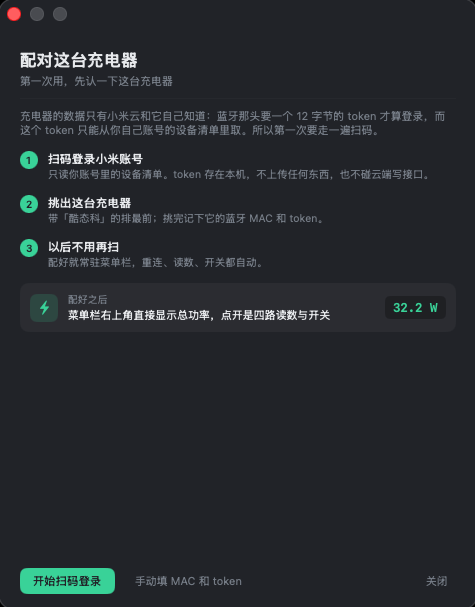
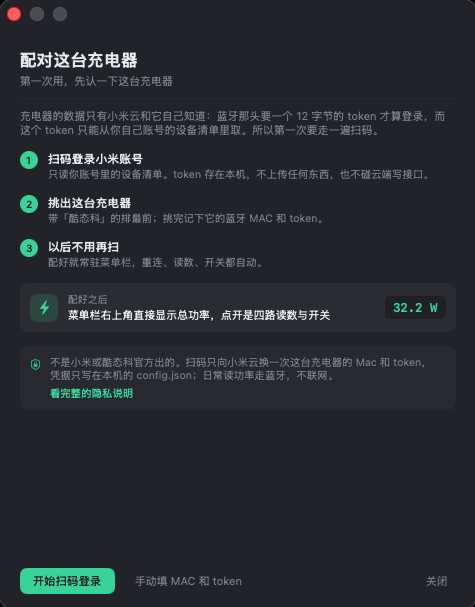
0.4.6: fix QR pairing under NativeAOT, privacy notes, macOS 0.1.0
Windows 0.4.6 fixes the reflection-serialization crash in the pairing path and adds --selftest AOT checks plus privacy notes in the wizard and README. macOS moves to its own version line starting at 0.1.0 with a privacy note in the wizard. Release drafts, changelog, dev log and the regenerated macOS wizard screenshots are included.

Changed region(s): [[0.0589, 0.5634, 0.8842, 0.6524]]

diff --git a/docs/release-0.4.6.md b/docs/release-0.4.6.md
@@ -1,0 +1,88 @@
+# 0.4.6 —— 扫完码报的那句英文，是我们自己的错
+
+> 这份是发 GitHub Release 用的正文草稿（中文），复制粘贴即可。英文见 [release-0.4.6.en.md](release-0.4.6.en.md)。
+
+一句话：修一个用户实际操作时才会撞到的坑——**扫码配对成功之后，向导上直接弹出一句英文**
+`Reflection-based serialization has been disabled for this app`。顺带把隐私说明写进了向导和 README，
+macOS 版从这一版起自己编号。
+
+## 这次改了什么
+
+### 0.4.6（本版）
+
+* **修扫码配对失败**：0.4.0 换成 NativeAOT 之后，反射式 JSON 序列化默认被关掉，而扫码链路上有两处用了它——
+  `/v2/home/home_device_list` 的请求体（`MiCrypto.JsonToken()` 内部）和 `blt_get_beaconkey`（`serialize(did)`）。
+  这两处都改成手写转义 `MiCrypto.JsonQuote()`，行为与原来完全一致
+* **为什么之前没测出来**：本地一直用已保存的 `settings.json` 跳过登录，扫码链路从没在 AOT 版上真机跑过一遍。
+  这一版把缺口补上：`--selftest` 增加 7 项 JSON 转义断言 + 一次设置文件源生成序列化往返，并打印
+  `[aot] json-reflection-enabled=False` 把「AOT 下反射序列化确实是关的」写进日志
+* **向导加隐私说明**：第一屏底部一行小字，点开是四段式说明（扫码时做什么 / 数据留在哪 / 不会做什么 / 想清干净删什么）。
+  没有勾选框、不挡路
+* **README 新增「九、隐私」一节**（中英同步），内容与弹窗一致，用一张表把「什么时候 / 做了什么 / 数据去哪」列清楚
+* 版本号 0.4.5 → 0.4.6
+
+### 隐私说明（详情）
+
+* 扫码只向小米云换一次这台充电器的 `mac` 与 12 字节 `token`；账号、密码、验证码全程在手机上，程序看不见
+* 凭据只写本机 `settings.json`（安装版 `%LOCALAPPDATA%\CuktechTray\settings.json`）；
+  `session.json` 里的登录会话只为「重新配置设备」时少扫一次码
+* 日常读功率、断/通端口全走蓝牙，不联网；**只有你主动点「检查更新」才会访问一次 GitHub**
+* 不上传读数、不做统计、不装后台服务；卸载后本机不留东西
+
+### macOS 版：0.1.0（从这一版起独立编号）
+
+macOS 版不再跟 Windows 共用版本号，自己从 **0.1.0** 开始，产物名 `CuktechTray-0.1.0-mac.zip`。
+两个平台改动节奏不一样，绑同一个号只会让更新日志变成两边不相干的条目混在一起。
+这一版 macOS 端也加了隐私说明（欢迎页一段小字 + 「看完整的隐私说明」弹窗），说明见 [mac/README.md](../mac/README.md)。
+
+### 0.4.5
+
+* 宣传素材换成真身：`--render-icons` / `--render-taskbar` 由程序自己渲图，右键菜单从真身抓屏；功能与 0.4.4 相同
+
+### 0.4.4
+
+* 顶栏「已连接」去掉半透明绿底，只留圆点与文字；顶栏整体下移 8 px，面板 320×396 → **320×404**
+
+## 怎么升级
+
+* **绿色版**：把新的 `CuktechTray.exe` 覆盖旧的即可，`settings.json` 原样接着用
+* **装过本机的**：托盘右键 →「检查更新」，它自己下载、校验 SHA256、重启换掉自己；也可以直接替换
+  `%LOCALAPPDATA%\Programs\CuktechTray\CuktechTray.exe`
+* **扫过码但没成功的**：升级后重新走一次向导即可（托盘菜单 →「重新配置设备…」，或 `CuktechTray.exe --setup`）
+* **命令行等价物**：`--install [--dir=<路径>] [--autostart] [--desktop] [--silent]`、`--uninstall [--silent]`，全程不弹 UAC
+
+## 文件
+
+| 文件 | 大小 | 说明 |
+| --- | --- | --- |
+| `CuktechTray-0.4.6-win.exe` | **10,882,048 字节（10.38 MiB）** | Windows：绿色版 + 安装器二合一；比 0.4.5 多 2,560 字节（手写转义 + 自检项） |
+| `CuktechTray-0.1.0-mac.zip` | **911,811 字节（890 KiB）** | macOS 13+：解压出 `CuktechTray.app`（universal，Intel / Apple Silicon 都能跑，ad-hoc 签名），说明见 [mac/README.md](../mac/README.md) |
+
+## 校验
+
+```
+文件   CuktechTray-0.4.6-win.exe   （本地 build 出来叫 CuktechTray.exe，同一个文件）
+大小   10,882,048 字节
+SHA256 BEF1F61D06DA270871DD4333FA39BEFD04EAE547D0F5DCB656F9F0A835BCF051
+
+文件   CuktechTray-0.1.0-mac.zip   （CI 在 macos-26-intel 上编的 universal 包）
+大小   911,811 字节
+SHA256 42621A1F1D1E3FF6BE18542F4C15B5E636400119906272E3791AFEE5EDCECA8F
+```
+
+Windows 用 `Get-FileHash .\CuktechTray-0.4.6-win.exe -Algorithm SHA256`、macOS 用
+`shasum -a 256 CuktechTray-0.1.0-mac.zip` 对着看；GitHub 的资产页也会直接显示 digest。
+
+## 系统要求
+
+* Windows 10 2004（内部版本 19041）及以上，x64；或 macOS 13 及以上（Intel / Apple Silicon 通用）
+* 两边都不需要装运行时：Windows 端是 NativeAOT 单文件，macOS 端是原生 .app
+* 硬件还是「酷态科 10 号 Ultra」充电器 + 蓝牙（BLE），认证成功后的运行期只走蓝牙
+
+## 已知
+
+* 这个 exe **没有代码签名**，首次运行会弹蓝色的「Windows 已保护你的电脑」，点「更多信息 → 仍要运行」即可
+* 自动更新只认名字以 `CuktechTray-` 开头、以 `.exe` 结尾、且不含 `Setup` 的发布资产，所以 `-win.exe` 天然符合、`-mac.zip` 不会被误选
+* macOS 包**没有公证**（没有 Apple 开发者账号，只有 ad-hoc 签名），第一次打开要右键 → 打开，细节见 [mac/README.md](../mac/README.md)
+* macOS 版从这一版起版本号独立（0.1.0），升级时别拿 Windows 的 0.4.x 去对
+* `--render*` / `--font-probe` / `--update-selftest` 这些是开发自查用的开关，正常使用不用管

diff --git a/docs/release-0.4.6.en.md b/docs/release-0.4.6.en.md
@@ -1,0 +1,85 @@
+# 0.4.6 — the English sentence after a QR scan was our bug
+
+> Draft release body (English). Chinese version: [release-0.4.6.md](release-0.4.6.md).
+
+In one line: a bug only reachable through real use — **right after a successful QR pairing the wizard showed the English sentence**
+`Reflection-based serialization has been disabled for this app`. This release also adds a privacy note to the wizard and the README,
+and macOS starts its own version line.
+
+## What changed
+
+### 0.4.6 (this release)
+
+* **Fixed QR pairing**: after 0.4.0 moved to NativeAOT, reflection-based JSON serialization is off by default, and the pairing path used it in two places —
+  the `/v2/home/home_device_list` body (inside `MiCrypto.JsonToken()`) and `blt_get_beaconkey` (`serialize(did)`).
+  Both now use a hand-written escaper `MiCrypto.JsonQuote()`, with identical behaviour
+* **Why it had never been caught**: local testing always used a saved `settings.json` and skipped the login path, so the pairing path had never run on a real AOT build.
+  `--selftest` now covers it: seven JSON-escaping assertions plus a settings source-generation round-trip, and it prints
+  `[aot] json-reflection-enabled=False` so the log proves that reflection serialization really is off under AOT
+* **Privacy note in the wizard**: one small line at the bottom of the first screen; it opens a four-part explanation (what scanning does / where data stays / what is never done / what to delete).
+  No checkbox, nothing blocking
+* **README gained a "9. Privacy" section** (both languages), matching the dialog, with a when / what / where table
+* Version 0.4.5 → 0.4.6
+
+### Privacy in short
+
+* Scanning exchanges this charger's `mac` and a 12-byte `token` once with Xiaomi Cloud; account, password and verification code stay on the phone
+* Credentials are written only to the local `settings.json` (installed builds: `%LOCALAPPDATA%\CuktechTray\settings.json`);
+  the session in `session.json` exists only to save one scan when reconfiguring
+* Power readings and port switching go over Bluetooth with no network; **only an explicit "Check for updates" contacts GitHub**
+* No uploads, no telemetry, no background service; uninstalling leaves nothing behind
+
+### macOS: 0.1.0 (own version line from here on)
+
+macOS no longer shares the Windows version number and starts at **0.1.0**: `CuktechTray-0.1.0-mac.zip`.
+The two platforms move at different speeds, and one shared number only mixes unrelated changelog entries.
+macOS also got the privacy note in this release (a paragraph on the welcome screen plus a full-note dialog); see [mac/README.md](../mac/README.md).
+
+### 0.4.5
+
+* Promo assets replaced with the real thing: `--render-icons` / `--render-taskbar` render from the program itself, the menu is captured from the real menu; no functional change from 0.4.4
+
+### 0.4.4
+
+* The connected pill drops its tinted fill (dot and label stay) and the top bar moves down 8 px; panel 320×396 → **320×404**
+
+## Upgrading
+
+* **Portable**: overwrite the old `CuktechTray.exe`; `settings.json` keeps working
+* **Installed**: tray menu → "Check for updates" downloads, verifies SHA256 and replaces itself; or replace
+  `%LOCALAPPDATA%\Programs\CuktechTray\CuktechTray.exe` directly
+* **Tried to pair and failed**: after upgrading, run the wizard again (tray menu → "Reconfigure device…", or `CuktechTray.exe --setup`)
+* **Command line equivalents**: `--install [--dir=<path>] [--autostart] [--desktop] [--silent]`, `--uninstall [--silent]`, no UAC prompts
+
+## Files
+
+| File | Size | Notes |
+| --- | --- | --- |
+| `CuktechTray-0.4.6-win.exe` | **10,882,048 bytes (10.38 MiB)** | Windows: portable build + installer in one; 2,560 bytes more than 0.4.5 (hand-written escaping + self-checks) |
+| `CuktechTray-0.1.0-mac.zip` | **911,811 bytes (890 KiB)** | macOS 13+: unpacks to `CuktechTray.app` (universal, Intel / Apple Silicon, ad-hoc signed), see [mac/README.md](../mac/README.md) |
+
+## Checksums
+
+```
+file   CuktechTray-0.4.6-win.exe   (the local build is called CuktechTray.exe, same file)
+size   10,882,048 bytes
+SHA256 BEF1F61D06DA270871DD4333FA39BEFD04EAE547D0F5DCB656F9F0A835BCF051
+
+file   CuktechTray-0.1.0-mac.zip   (universal build from macos-26-intel CI)
+size   911,811 bytes
+SHA256 42621A1F1D1E3FF6BE18542F4C15B5E636400119906272E3791AFEE5EDCECA8F
+```
+
+## Requirements
+
+* Windows 10 2004 (build 19041)+, x64; or macOS 13+ (Intel / Apple Silicon)
+* No runtime needed on either platform: NativeAOT single file on Windows, a native .app on macOS
+* Hardware is still a CUKTECH 10 Ultra charger over BLE; once authenticated everything stays on Bluetooth
+
+## Known
+
+* The exe is **not code-signed**; the first run shows the blue SmartScreen box — "More info → Run anyway"
+* Auto-update only accepts release assets starting with `CuktechTray-`, ending in `.exe` and not containing `Setup`, so `-win.exe` matches and `-mac.zip` is never picked by the Windows side
+* The macOS bundle is **not notarized** (no Apple Developer account, ad-hoc signature only); right-click → Open the first time — see [mac/README.md](../mac/README.md)
+* macOS has its own version line from this release (0.1.0); don't compare it against the Windows 0.4.x numbers
+* `--render*` / `--font-probe` / `--update-selftest` are development switches; ignore them in normal use

diff --git a/AGENTS.md b/AGENTS.md
@@ -123,6 +123,9 @@ WinForms 壳当作 0.3.3 的归档，不再跟进（共性代码除外）。
    **同一版本号下 Windows 与 macOS 各出一份产物，文件名用 `-win` / `-mac` 区分**。
    自动更新仍然认得这个名字：`UpdateCheck.PickAsset` 只要求以 `CuktechTray-` 开头、以 `.exe` 结尾、不含 `Setup`，
    `-win` 不影响匹配，`.zip`（mac 那份）也不会被误选——**不需要改这段代码**。
+   **macOS 版的版本号自成一套**（用户 2026-11-25 定）：`mac/Sources/CuktechCore/BuildInfo.swift` 的 `version` 是唯一来源，
+   从 **0.1.0** 起自己算，不跟 Windows 的 0.4.x 绑。Release 里 mac 产物名跟着它走（例如 Windows 0.4.6 配 `CuktechTray-0.1.0-mac.zip`），
+   所以 tag 是 `v0.4.6` 而 zip 名带 0.1.0，这是正常的。
 7. 提交并推送 commit（主题行「<版本>: 一句话」，正文列改动），然后 `git tag -a v<版本> -m "<版本>: <一句话>"` 并推 tag。
    git 在 `D:\dsh projects\.tools\git\cmd\git.exe`（不在 PATH）；push 要带 `-c http.extraheader=AUTHORIZATION: basic <base64(x-access-token:token)>`，
    token 在 `D:\dsh projects\.secrets\github-token.txt`（在仓库目录之外，绝不进仓库）。
